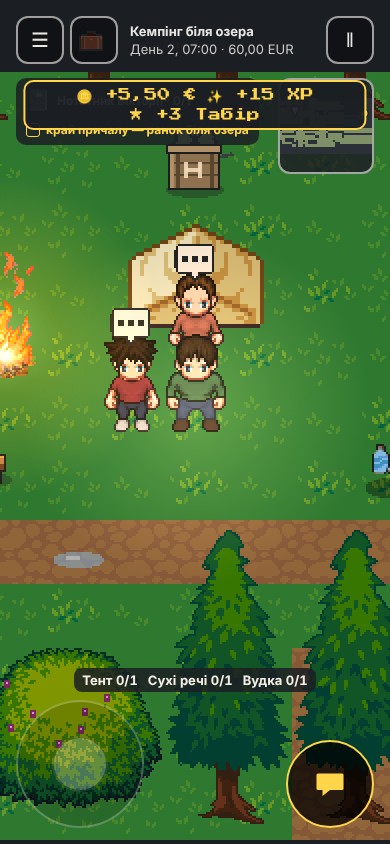
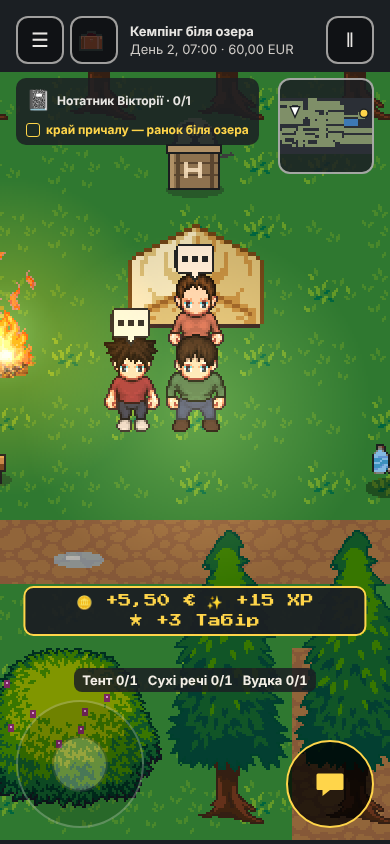
GAME-247: наклейка нагороди в HUD (+€ · +XP · +навичка), дзвіночок, черга банерів, злиття; e2e + юніт
Claude-Session: https://claude.ai/code/session_01RoJJJhaZjeur2b1tUo6iMd

diff --git a/tests/e2e/game-247.spec.ts b/tests/e2e/game-247.spec.ts
@@ -62,7 +62,8 @@ for (const v of VIEWS) {
       await expect(sticker(page)).toBeVisible({ timeout: 5_000 });
       const parts = await sticker(page).locator('.ui-reward-part').allInnerTexts();
       expect(parts.map((p) => p.trim()), 'точні суми ядра в наклейці').toEqual(['+5,50 €', '+15 XP', expect.stringMatching(/^\+3 \S+/)]);
-      const box = (await sticker(page).boundingBox())!;
+      const box = await sticker(page).boundingBox();
+      if (!box) throw new Error('наклейка без рамки');
       expect(box.x, 'наклейка не виходить за лівий край').toBeGreaterThanOrEqual(0);
       expect(box.x + box.width, 'і за правий').toBeLessThanOrEqual(v.w);
       expect(box.y + box.height, 'і за нижній').toBeLessThanOrEqual(v.h);
@@ -93,7 +94,8 @@ for (const v of VIEWS) {
       await shot(page, `merged-${v.side}`);
       await give(page, { cents: 100, xp: 0, om: 0, skills: {} });   // ще одна, поки жива — теж злилась
       await expect(sticker(page).locator('.ui-reward-part').first()).toHaveText('+6 €');
-      const seen = await page.evaluate(() => window.__g247!);
+      const seen = await page.evaluate(() => window.__g247);
+      if (!seen) throw new Error('спостерігач кадрів не стартував');
       expect(seen.max, 'за весь час ніколи більше однієї наклейки').toBeLessThanOrEqual(1);
       expect(seen.overlap, 'кадрів, де наклейка перекривала рамку чи банер').toBe(0);
       expect(errors).toEqual([]);

diff --git a/index.html b/index.html
@@ -103,6 +103,7 @@
       /* GAME-247: наклейка нагороди — у нижній частині HUD над смугою цілей і стіком, по центру (угорі — шапка, нагадування й мінімапа); не ловить дотик; у чергу банерів (Shell: bannerSlot). */
       .ui-reward { position: fixed; left: 50%; bottom: calc(var(--edge-bottom) + var(--stick-size) + 64px); transform: translateX(-50%); z-index: 18; box-sizing: border-box; width: max-content; max-width: min(88vw, 420px); display: flex; flex-wrap: wrap; justify-content: center; gap: 2px 10px; padding: 4px 10px;
         border: 2px solid #ffd54a; border-radius: 10px; background: #1b1f23f2; color: #ffd54a; font-family: 'CampPixel', system-ui, sans-serif; font-size: 0.8125rem; line-height: 1.4; pointer-events: none; }
+      @media (orientation: landscape) and (max-height: 520px) { .ui-reward { bottom: calc(var(--edge-bottom) + 64px); } }   /* низький екран: нижче героя, над смугою цілей */
       .ui-reward-part[data-kind="cents"]::before { content: "🪙 "; } .ui-reward-part[data-kind="xp"]::before { content: "✨ "; } .ui-reward-part[data-kind="om"]::before { content: "🧭 "; } .ui-reward-part[data-kind="skill"]::before { content: "★ "; }
       /* GAME-181: смужки прогресу й блок навичок у ☰. */
       .ui-progress, .ui-skills { max-width: min(92vw, 640px); width: 100%; text-align: left; font-size: 0.75rem; }
